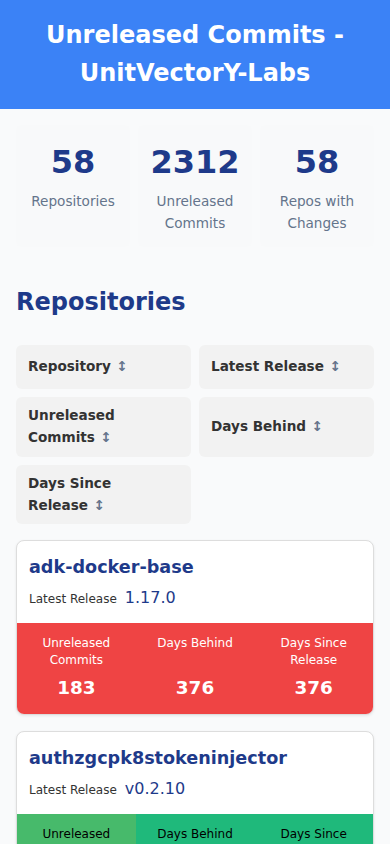
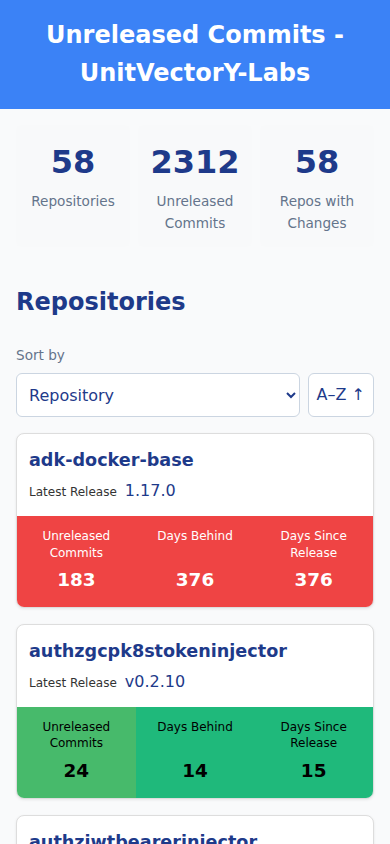
Refresh screenshots for native mobile sorting controls

diff --git a/README.md b/README.md
@@ -2,12 +2,12 @@
 
 Generated locally from an identical snapshot of `/home/jared/github/unitvectory-labs-unreleasedcommits/data` (last crawled November 6, 2026 at 06:21 UTC): 58 repositories and 2,312 unreleased commits.
 
-Before: templates at 3aa3893. After: templates at 87ab5dd.
+Before: templates at 3aa3893. After: templates at 5c1e141.
 
 Chromium screenshots at device scale factor 1. Mobile: 390 × 844, mobile/touch emulation enabled. Desktop: 1440 × 1000. Screenshots show the initial viewport with the default alphabetical repository order. Repository detail screenshots show adk-docker-base.
 
 The desktop before and after PNG files are byte-for-byte identical.
 
-`validation.txt` records overflow checks for all 59 generated pages at six viewport widths, plus checks of all five sorting controls in both directions.
+`validation.txt` records overflow checks for all 59 generated pages at six viewport widths, plus checks of all five sort fields in both directions through the mobile dropdown/order button and desktop headers, state synchronization across resizing, and keyboard focus. The sorted mobile screenshot shows Unreleased Commits with Highest first selected.
 
 These review artifacts live on a separate branch and are not part of the application PR diff.
